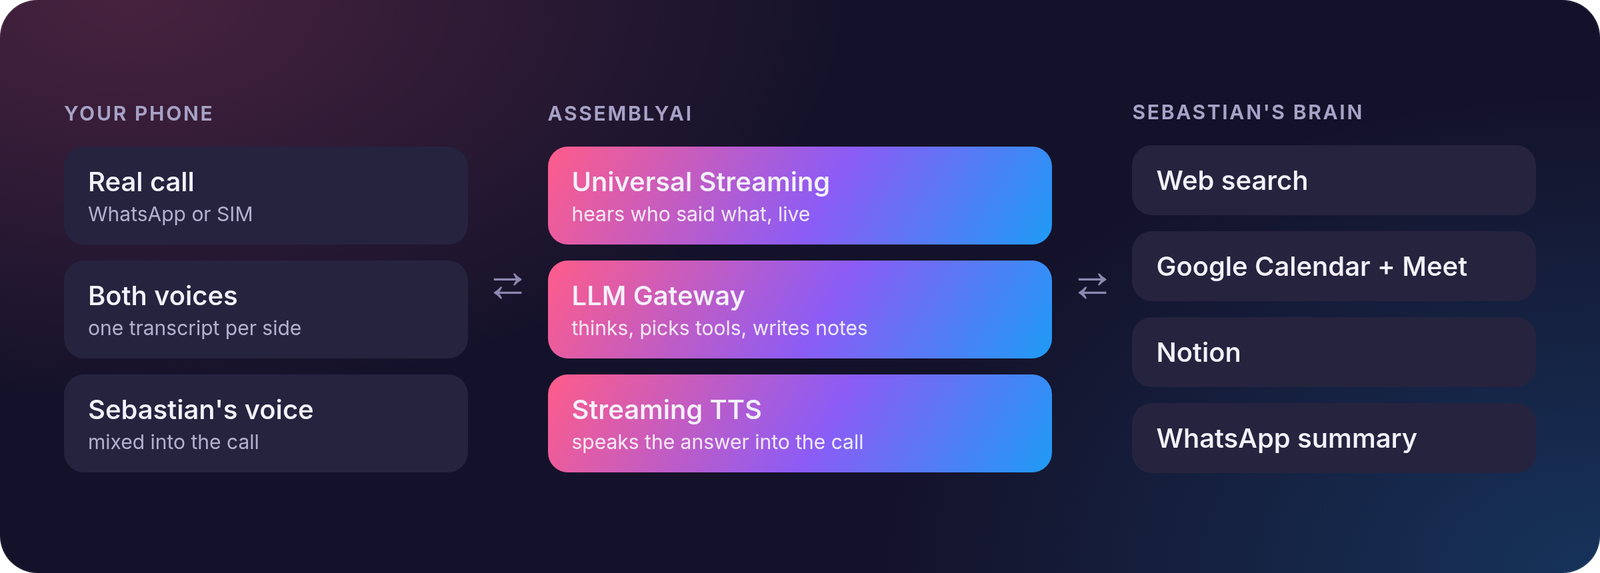
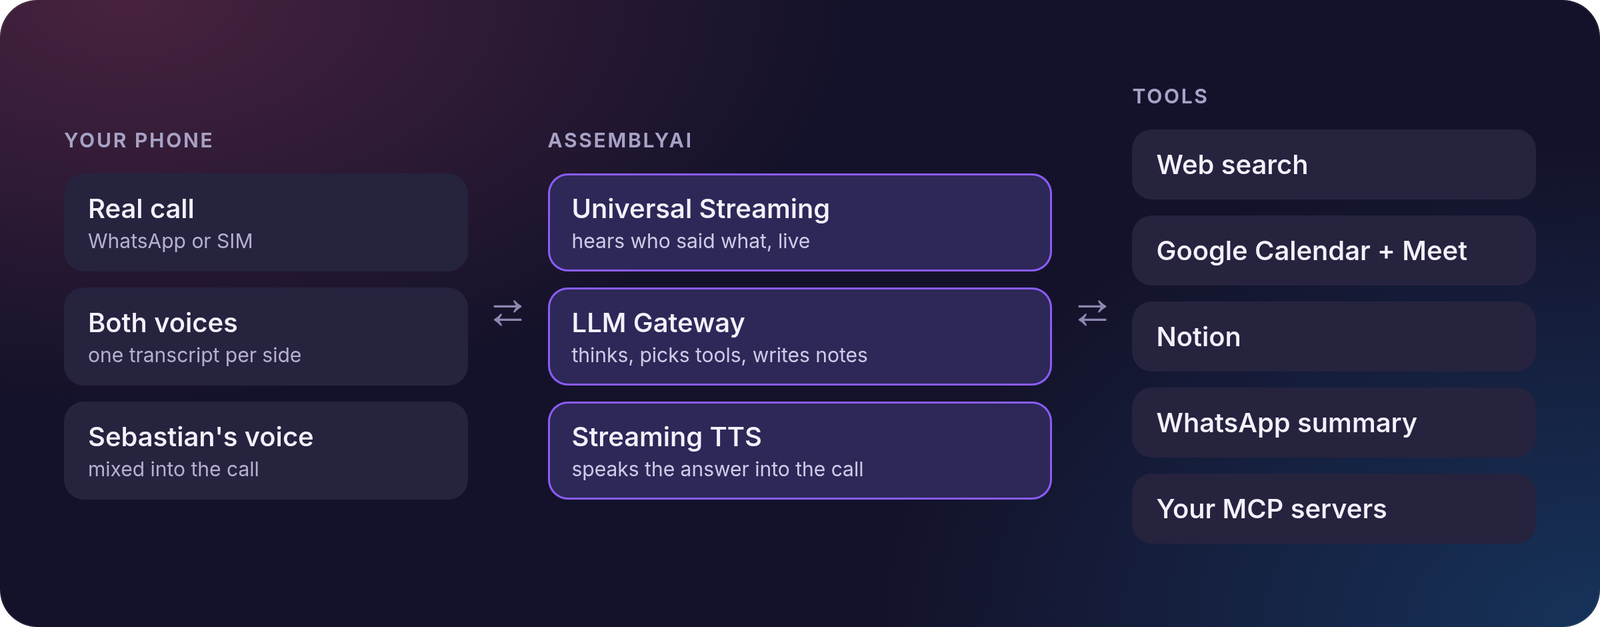
README: add MCP section, simplify the middle and end

diff --git a/README.md b/README.md
@@ -55,74 +55,41 @@ Say its name mid-call and Sebastian answers out loud, looks things up, and takes
 
 ## What Sebastian does on a call
 
-<table>
-<tr>
-<td width="56"><img src="docs/assets/icons/messages.svg" width="36" alt=""></td>
-<td><em>"Sebastian, what did we say the price was?"</em></td>
-<td>Answers from the conversation</td>
-</tr>
-<tr>
-<td><img src="docs/assets/icons/search.svg" width="36" alt=""></td>
-<td><em>"Sebastian, who's right about this?"</em></td>
-<td>Searches the web and tells you both</td>
-</tr>
-<tr>
-<td><img src="docs/assets/icons/file.svg" width="36" alt=""></td>
-<td><em>"Sebastian, what's in our pricing doc?"</em></td>
-<td>Reads the page from your Notion</td>
-</tr>
-<tr>
-<td><img src="docs/assets/icons/calendar.svg" width="36" alt=""></td>
-<td><em>"Sebastian, book a follow-up Friday 3 PM."</em></td>
-<td>Books it and sends the Google Meet link on WhatsApp</td>
-</tr>
-<tr>
-<td><img src="docs/assets/icons/link.svg" width="36" alt=""></td>
-<td><em>"Sebastian, send them my booking link."</em></td>
-<td>Sends your Calendly link on WhatsApp</td>
-</tr>
-<tr>
-<td><img src="docs/assets/icons/link.svg" width="36" alt=""></td>
-<td><em>"Sebastian, log this in the CRM."</em></td>
-<td>Uses your apps' tools through <a href="docs/MCP.md">MCP</a></td>
-</tr>
-<tr>
-<td><img src="docs/assets/icons/hangup.svg" width="36" alt=""></td>
-<td><em>"Sebastian, cut the call."</em></td>
-<td>Hangs up for you</td>
-</tr>
-</table>
+| Say | Sebastian |
+|---|---|
+| *"Sebastian, what did we say the price was?"* | Answers from the conversation |
+| *"Sebastian, who's right about this?"* | Searches the web and tells you both |
+| *"Sebastian, what's in our pricing doc?"* | Reads the page from your Notion |
+| *"Sebastian, book a follow-up Friday 3 PM."* | Books it and sends the Google Meet link on WhatsApp |
+| *"Sebastian, send them my booking link."* | Sends your Calendly link on WhatsApp |
+| *"Sebastian, cut the call."* | Hangs up for you |
+
+## Connect your own apps
+
+Sebastian works with remote MCP servers, so it can use your CRM, knowledge base or any other tool mid-call. List a server in `sebastian.json` and its tools are ready on the next call:
+
+```json
+"mcp_servers": [
+  { "name": "crm", "url": "https://mcp.example.com/mcp", "token_env": "CRM_MCP_TOKEN" }
+]
+```
+
+Then say *"Sebastian, log this in the CRM."* Servers need to use Streamable HTTP, with a bearer token or no auth. [More on MCP servers](docs/MCP.md)
 
 ## Built on AssemblyAI
 
-<table>
-<tr>
-<td width="56"><img src="docs/assets/icons/ear.svg" width="36" alt=""></td>
-<td><strong>Universal Streaming</strong></td>
-<td>Transcribes each side of the call live, and hears "Hey Sebastian"</td>
-</tr>
-<tr>
-<td><img src="docs/assets/icons/brain.svg" width="36" alt=""></td>
-<td><strong>LLM Gateway</strong></td>
-<td>Decides what to say and which tool to use, and writes the notes</td>
-</tr>
-<tr>
-<td><img src="docs/assets/icons/speaker.svg" width="36" alt=""></td>
-<td><strong>Text-to-Speech</strong></td>
-<td>Speaks Sebastian's answers into the call</td>
-</tr>
-</table>
-
-<br>
+| Service | What it does |
+|---|---|
+| **Universal Streaming** | Transcribes each side of the call live, and hears "Hey Sebastian" |
+| **LLM Gateway** | Decides what to say and which tool to use, and writes the notes |
+| **Text-to-Speech** | Speaks Sebastian's answers into the call |
 
 <div align="center">
-<img src="docs/assets/flow.png" width="860" alt="The phone sends both voices to AssemblyAI, which reaches Sebastian's brain for web search, Calendar, Notion and WhatsApp">
-</div>
-
 <br>
+<img src="docs/assets/flow.png" width="860" alt="Your phone sends both voices to AssemblyAI, and Sebastian reaches web search, Calendar, Notion, WhatsApp and your MCP servers">
+</div>
 
 ## More
 
 - [How it works under the hood](docs/HOW-IT-WORKS.md)
 - [Run it yourself](docs/SETUP.md)
-- [Connect MCP servers](docs/MCP.md)

diff --git a/docs/HOW-IT-WORKS.md b/docs/HOW-IT-WORKS.md
@@ -28,6 +28,7 @@
 - **Introducing itself:** Sebastian waits for the other side's first transcribed words before its join line, so a ring-back tone never fools it.
 - **Thinking:** AssemblyAI LLM Gateway, OpenAI-compatible chat completions with tool calling, with the whole call so far as context.
 - **Speaking:** AssemblyAI streaming TTS at `sample_rate=16000`, `pcm_s16le`, the same format as the call audio. While Sebastian speaks, both transcripts get silence so it doesn't hear itself. If someone talks over it, Sebastian sends `Cancel` and stops.
+- **MCP tools:** at the start of a call, Sebastian lists the tools of each server in `mcp_servers` and offers them to the LLM alongside the built-in ones. See [MCP servers](MCP.md).
 - **Slow tools:** Sebastian acknowledges first, then speaks the result.
 
 ## AssemblyAI APIs
